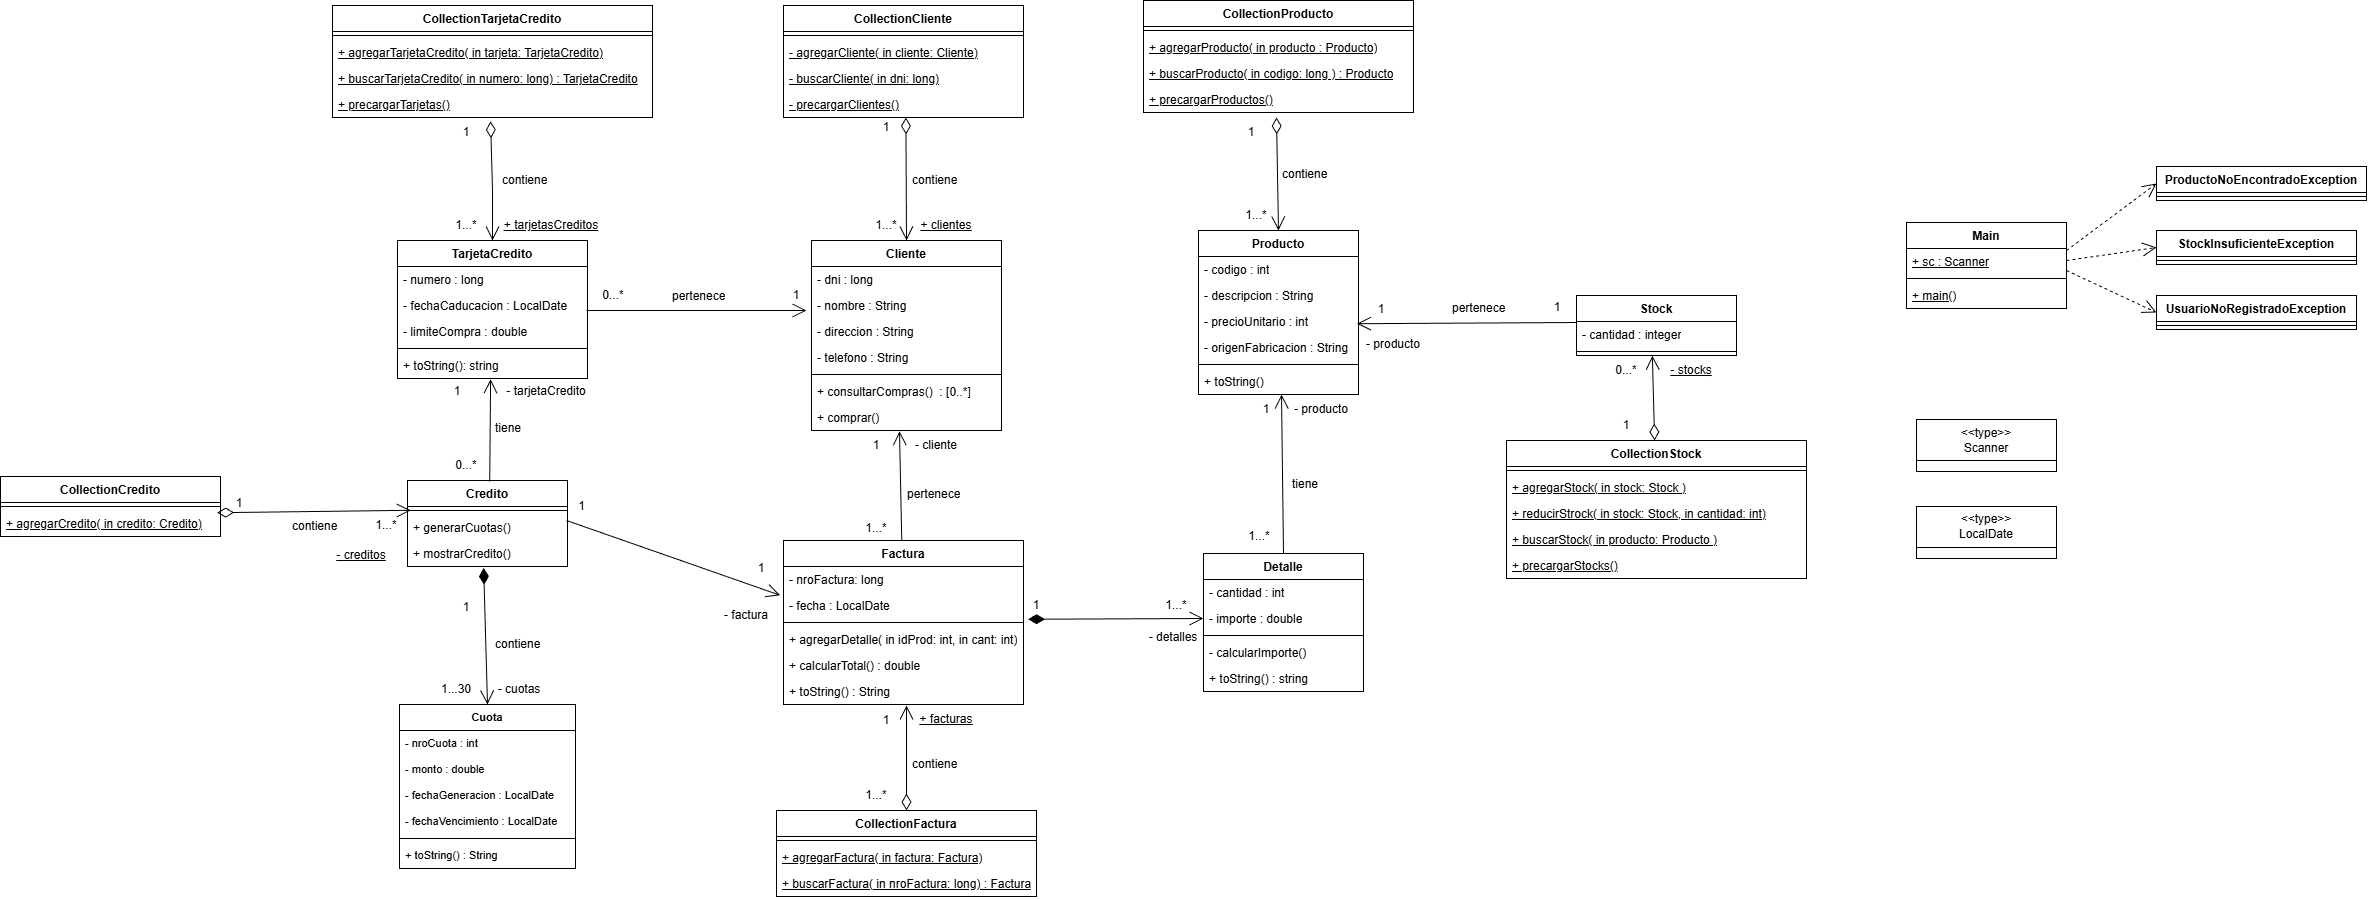
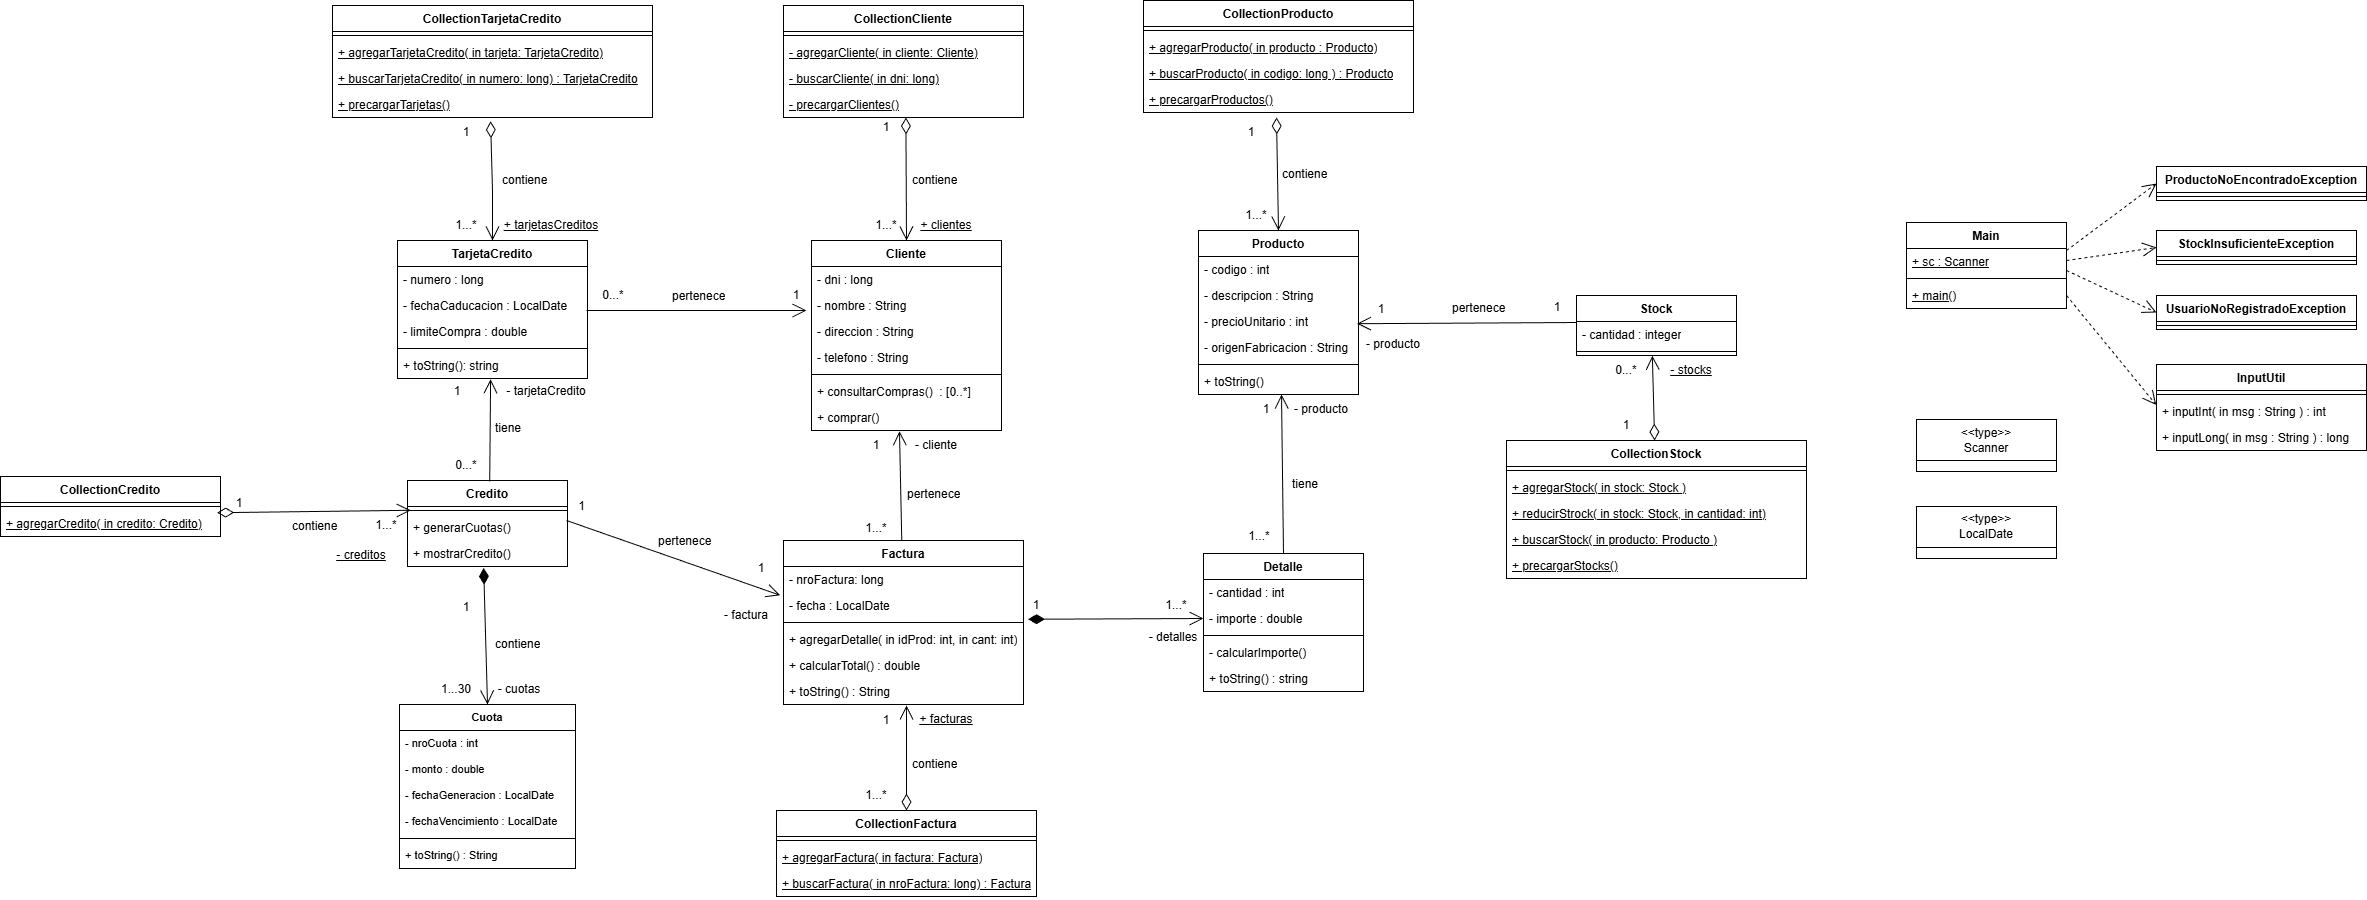
Modificacion diagrama UML - Abigail Teran

diff --git a/src/main/java/ar/edu/unju/escmi/tp7/main/Main.java b/src/main/java/ar/edu/unju/escmi/tp7/main/Main.java
@@ -15,7 +15,7 @@ import ar.edu.unju.escmi.tp7.exceptions.*;
 
 
 public class Main {
-	static Scanner sc = new Scanner(System.in);
+	public static Scanner sc = new Scanner(System.in);
 
 	public static void main(String[] args) {
 		
@@ -35,6 +35,7 @@ public class Main {
             opcion = InputUtil.inputInt("Ingrese su opcion: ");
 
             switch (opcion) {
+                // revisar y modificar caso 1
 				case 1: {
                     try {
                         long dni = InputUtil.inputLong("Ingrese el DNI del cliente: ");
@@ -117,6 +118,18 @@ public class Main {
                     break;
                 }
 
+                case 5 : {
+                    long dni = InputUtil.inputLong("Ingrese el dni del cliente: ");
+                    try{
+                        Cliente cliente = CollectionCliente.buscarCliente(dni);
+                        if( cliente == null ) throw new UsuarioNoRegistradoException("El usuario no existe.");
+                        
+                    } catch (UsuarioNoRegistradoException e ) {
+                        System.out.println(e.getMessage());
+                    }
+                    break;
+                }
+                
                 case 6: System.out.println("Saliendo del programa..."); break;    
                 default: System.out.println("La opcion seleccionada no existe");break;
             }

diff --git a/src/main/java/ar/edu/unju/escmi/tp7/utils/InputUtil.java b/src/main/java/ar/edu/unju/escmi/tp7/utils/InputUtil.java
@@ -3,7 +3,7 @@ package ar.edu.unju.escmi.tp7.utils;
 import java.util.Scanner;
 
 public class InputUtil {
-    static Scanner sc = new Scanner(System.in);
+    public static Scanner sc = new Scanner(System.in);
 
     public static int inputInt( String msg){
         int aux =0; boolean valido = false;
